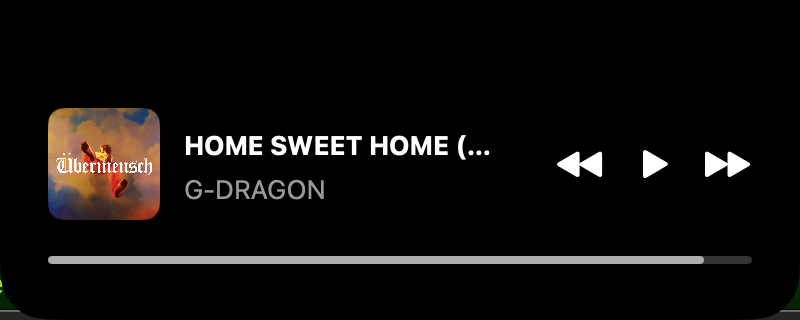
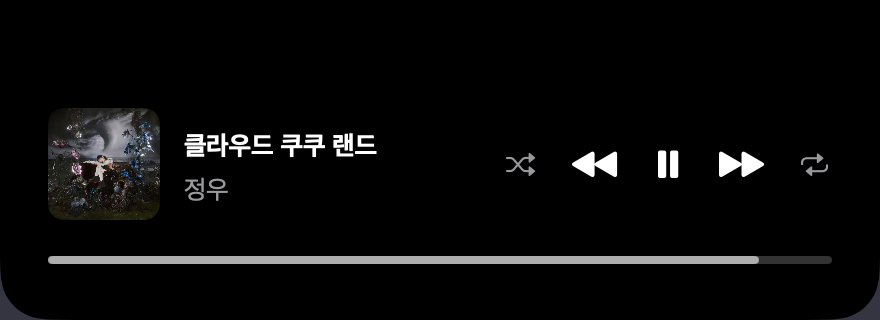
README에 셔플·반복·좋아요 반영, 스크린샷 교체

diff --git a/README.md b/README.md
@@ -9,6 +9,8 @@
 - 평소에는 노치와 같은 크기의 검은 캡슐로 숨어 있고, 마우스를 올리면 펼쳐집니다
 - 지금 재생 중인 곡의 제목, 아티스트, 앨범아트
 - 재생/일시정지, 다음 곡, 이전 곡
+- 셔플, 반복 (Spotify는 켜짐/꺼짐, Apple Music은 끔 → 전체 → 한 곡)
+- 좋아요 (Apple Music만, 제목 옆 하트)
 - 진행바를 클릭하거나 끌어서 재생 위치 옮기기
 - 앨범아트를 누르면 재생 중인 앱(Spotify, Music) 열기
 - 둘 다 재생 중이면 마지막으로 재생을 시작한 앱을 보여줌
@@ -22,7 +24,7 @@ macOS 15.4부터 시스템 전체의 "지금 재생 중" 정보(비공개 MediaR
 |---|---|
 | 곡이 바뀐 걸 알기 | Spotify `com.spotify.client.PlaybackStateChanged`, Music `com.apple.Music.playerInfo` 분산 알림 구독 |
 | 앨범아트, 재생 위치, 켤 때 현재 곡 | AppleScript로 앱에 직접 묻기 |
-| 재생 제어, 위치 옮기기 | AppleScript (`playpause`, `next track`, `set player position`) |
+| 재생 제어, 위치 옮기기, 셔플·반복·좋아요 | AppleScript (`playpause`, `next track`, `set player position`, `shuffling`, `song repeat`, `favorited` 등) |
 | 노치 위 창 | `NSPanel` (borderless, nonactivating) + SwiftUI |
 
 AppleScript를 쓰기 때문에 처음 실행할 때 "NotchPlayer가 Spotify를 제어하려고 합니다" 자동화 권한을 한 번 허용해야 합니다.
@@ -66,6 +68,8 @@ swift test
 ## 알려진 한계
 
 - Spotify, Apple Music 외 앱(브라우저 유튜브 등)은 표시되지 않습니다
-- Spotify 앱 안에서 재생 위치를 옮기면 알림이 오지 않아서, 노치를 다시 펼칠 때 맞춰집니다
+- Spotify 좋아요는 없습니다. Spotify AppleScript의 `starred`가 읽기 전용이라 바꿀 수 없고, Web API(로그인·토큰 관리 필요)는 쓰지 않기로 했습니다
+- Spotify 반복은 켜짐/꺼짐만 됩니다(AppleScript가 한 곡 반복을 지원하지 않음)
+- Spotify 앱 안에서 재생 위치, 셔플, 반복을 바꾸면 알림이 오지 않아서 노치를 다시 펼칠 때 맞춰집니다
 - AppleScript를 메인 스레드에서 실행합니다. 지금은 최대 69ms라 문제없지만 앱 응답이 느려지면 화면이 잠깐 멈출 수 있습니다
 - 외부 모니터만 쓸 때는 노치가 있는 화면이 없어서 메인 화면 위쪽에 붙습니다
